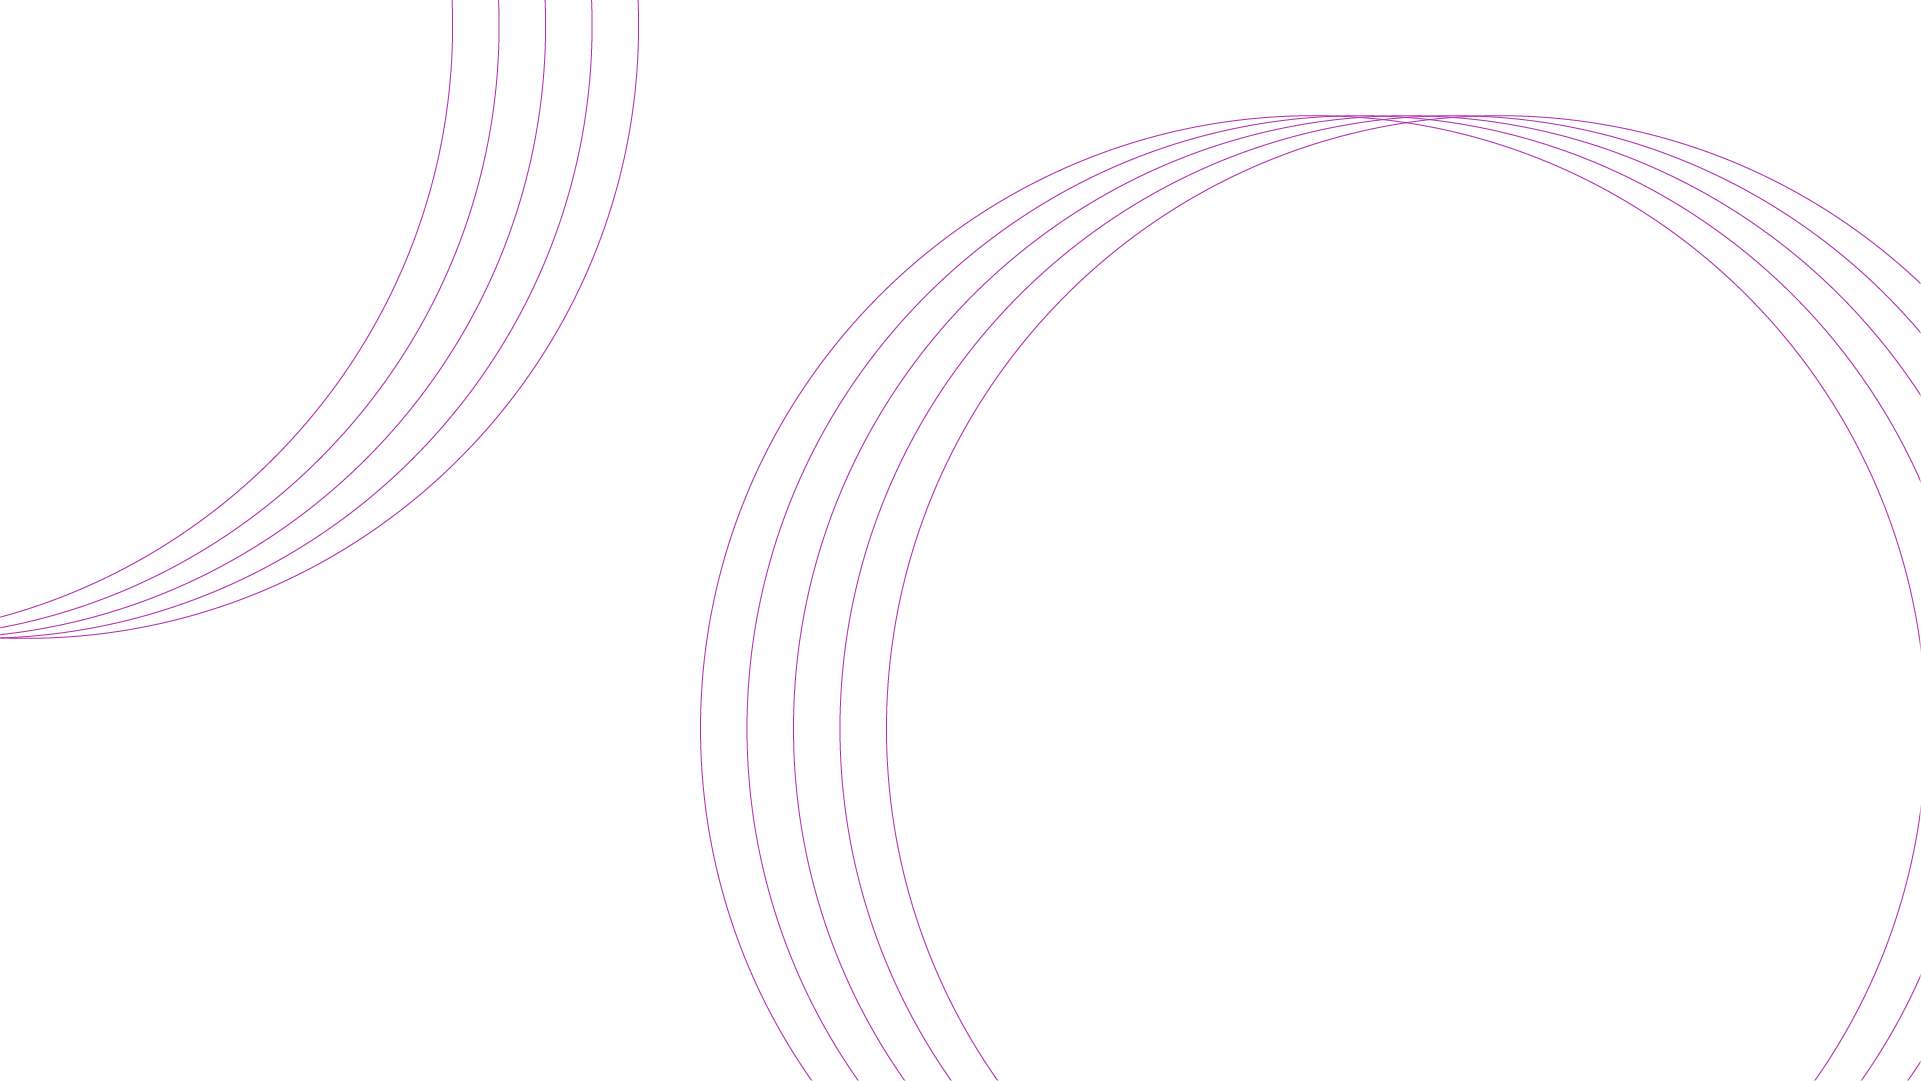
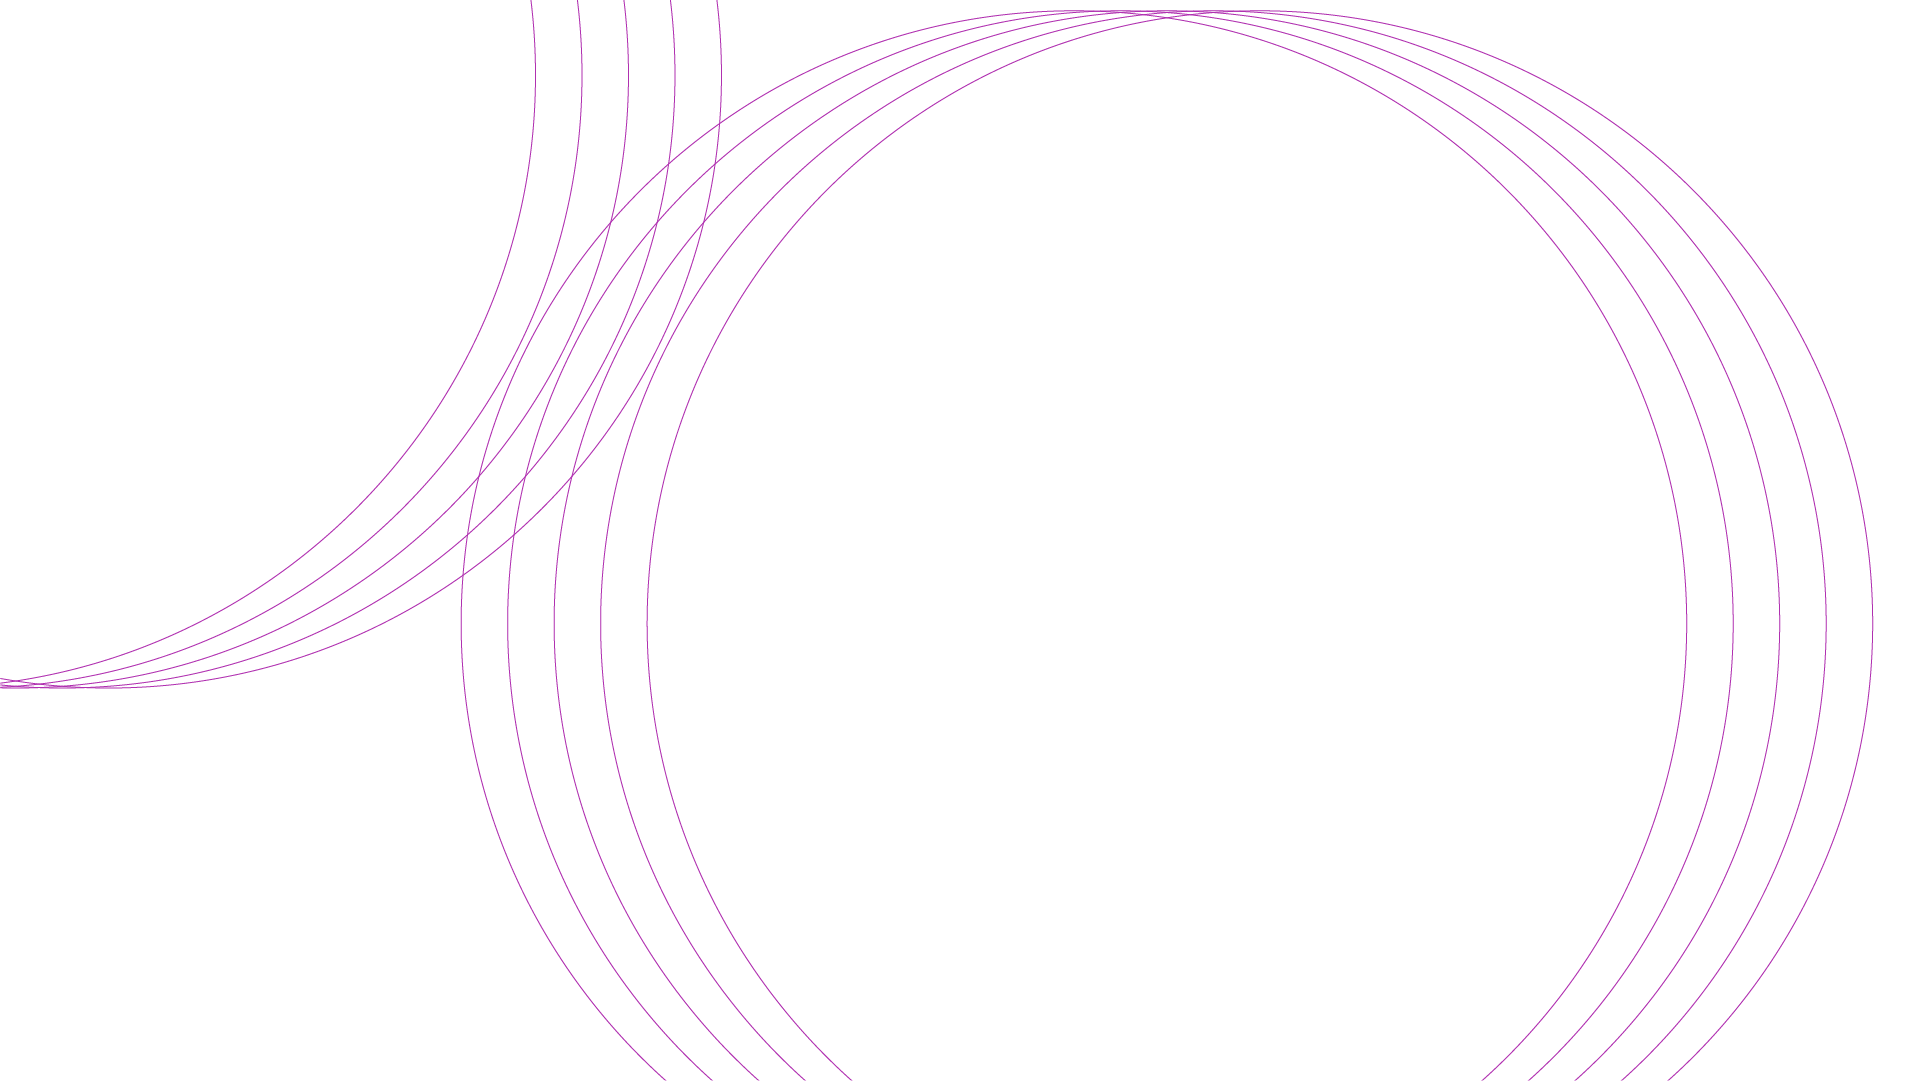
home page changes

diff --git a/stylesheet/stylesheet.css b/stylesheet/stylesheet.css
@@ -1,10 +1,19 @@
 /* ----------------------------------------colour reference */
 /* 
+black
 blue grey: #202040
 navy blue: #202060
 purple: #602080
 pink: #b030b0
 grey: #808080
+
+focus colors:
+black: #262630
+blue grey: #3c3c68
+navy blue: #46469b
+purple: #783f99
+pink: #aa50ad
+grey: #686768
 
 */
 
@@ -104,6 +113,10 @@ ul.spaced-list li{
     cursor: pointer;
     padding: 20px 40px;
 }
+.btn-primary:hover, .btn-primary:active, .btn-primary:focus {
+    background: #3c3c68;
+    border: 1px solid #3c3c68;
+}
 .btn-secondary{
     background: black;
     border: 1px solid white;
@@ -122,7 +135,43 @@ ul.spaced-list li{
     color: white;
 }
 
+
+/* more icons */
+.more-icon{
+    width: 80px;
+    height: 80px;
+    padding-top: 20px;
+    position: absolute;
+    margin: 25px;
+    transition: 0.5s;
+}
+.more-icon:hover { 
+    cursor: pointer;
+    font-size: 1.1em;;
+}
+.more-icon a{
+    color: white;
+}
+.to-brand{
+    top: 30vh;
+    border-radius: 40px;
+    border: 1px solid white;
+    background: #202040;
+}
+.to-brand:hover{
+    background: #3c3c68;
+}
+.to-production{
+    opacity: 0.6;
+}
+.to-get-in-touch{
+    bottom: 3vh;
+    opacity: 0.6;
+}
+
+
 /* ----------------------------------------nav */
+header{}
 .menu-mobile{
     position: fixed;
     background: rgba(0,0,0,0.8);
@@ -192,7 +241,7 @@ section#landing{
 }
 #hex1{
     position: absolute;
-    animation: rotation 80s infinite linear reverse;
+    animation: rotation 50s infinite linear reverse;
     height: 60vh;
     top: 15vh;
     left: 0vw;
@@ -202,14 +251,14 @@ section#landing{
     height: 80vh;
     top: 5vh;
     left: -15vw;
-    animation: rotation 140s infinite linear;
+    animation: rotation 100s infinite linear;
 }
 #hex3{
     position: absolute;
     height: 200vh;
     top: -50vh;
     left: -100vw;
-    animation: rotation 180s infinite linear reverse;
+    animation: rotation 150s infinite linear reverse;
 }
 .logo{
     margin-top: 30vh;
@@ -222,27 +271,24 @@ section#landing h1{
     font-size: 1.5em;
 }
 @keyframes rotation {
-    from {
-      transform: rotate(0deg);
+    0% {
+      transform: rotate(0deg) translate(0, 0);
     }
-    to {
-      transform: rotate(359deg);
+    25%{
+        transform: rotate(90deg) translate(50px, 0);
+    }
+    50%{
+        transform: rotate(180deg) translate(50px, 50px);
+    }
+    75%{
+        transform: rotate(270deg) translate(0, 50px);
+
+    }
+    100% {
+      transform: rotate(359deg) translate(0, 0);
     }
 }
-.more-icon{
-    background: #202040;
-    width: 80px;
-    height: 80px;
-    border-radius: 40px;
-    border: 1px solid white;
-    padding-top: 20px;
-    position: absolute;
-    top: 30vh;
-    margin: 25px;
-}
-.more-icon a{
-    color: white;
-}
+
 
 /* brand section */
 section#brand{
@@ -274,6 +320,8 @@ section#brand{
 #brand-icons a{
     color: white;
 }
+
+/* brand more-icon */
 #brand-icons i.arrow{
     display: block;
     width: 80px;
@@ -285,6 +333,17 @@ section#brand{
     background: black;
     z-index: 10;
     position: relative;
+    transition: font-size 0.5s;
+}
+#brand-icons a.arrow{
+    transition: 0.5s;
+}
+#brand-icons a.arrow:hover{
+    text-decoration: none;
+}
+#brand-icons i.arrow:hover{
+    text-decoration: none;
+    font-size: 18px;
 }
 
 /* digital design section */
@@ -304,7 +363,7 @@ section#production{
 
 /* ----------------------------------------get in touch */
 section#get-in-touch{
-    background: url(../assets/svgs/get-in-touch.svg) no-repeat 20px 20px, #202040;
+    background: url(../assets/images/get-in-touch.png) no-repeat 20px 20px, #202040;
     background-size: 120vh auto;
 }
 
@@ -368,7 +427,7 @@ footer ul li a:hover{
 
     /* get in touch */
     section#get-in-touch{
-        background: url(../assets/svgs/get-in-touch.svg) no-repeat center 40px, #202040;
+        background: url(../assets/images/get-in-touch.png) no-repeat center 40px, #202040;
         background-size: 70vh auto;
         width: 100vw;
         padding: 100px 0;
@@ -390,7 +449,7 @@ footer ul li a:hover{
     #production-border{
         background: url(../assets/images/productiom-border.png) no-repeat center center;
         background-size: contain;
-        padding: 100px;
+        padding: 200px;
     }
  }
 
@@ -438,6 +497,10 @@ footer ul li a:hover{
         margin: 0;
         padding: 10px;
         width: auto;
+        transition: background 0.5s;
+    }
+    nav ul li.quote:hover{
+        background: #aa50ad;
     }
     nav a:hover{
         cursor: pointer;
@@ -499,7 +562,7 @@ footer ul li a:hover{
 
     /* get in touch */
     section#get-in-touch{
-        background: url(../assets/svgs/get-in-touch.svg) no-repeat center 40px, #202040;
+        background: url(../assets/images/get-in-touch.png) no-repeat center 40px, #202040;
         background-size: 90vh auto;
     }
 

diff --git a/index.html b/index.html
@@ -21,12 +21,6 @@
     <!-- link to custom css -->
     <link rel="stylesheet" href="stylesheet/stylesheet.css">
 
-    <!--animate.css-->
-    <link rel="stylesheet" href="https://cdnjs.cloudflare.com/ajax/libs/animate.css/3.7.2/animate.min.css">
-
-   <!--animate on scroll-->
-   <link rel="stylesheet" href="https://cdn.rawgit.com/michalsnik/aos/2.1.1/dist/aos.css"/>
-
 
     <!--[if lt IE 9]>
 	<script src="https://oss.maxcdn.com/html5shiv/3.7.2/html5shiv.min.js"></script>
@@ -72,20 +66,20 @@
 
     <section id="landing">
         <div class="landing-bg text-center">
-            <img id="hex1" src="assets/svgs/hex-1.svg">
-            <img id="hex2" src="assets/svgs/hex-2.svg">
-            <img id="hex3" src="assets/svgs/hex-3.svg">
+            <img id="hex1" src="assets/images/hex-1.png">
+            <img id="hex2" src="assets/images/hex-2.png">
+            <img id="hex3" src="assets/images/hex-3.png">
         </div>
         <div class="container">
             <div class="row">
                 <div class="col-12 text-center">
                     <div class="logo">
-                        <img class="logo" src="assets/images/logo.svg" alt="<>">
+                        <img class="logo" src="assets/images/logo.png" alt="logo">
                         <h1 class="text-white">Laura Ann Seal</h1>
                     </div>
                 </div>
                 <div class="col-xl-2 offset-xl-10 text-white text-center hide-until-desktop">
-                    <div class="more-icon">
+                    <div class="more-icon to-brand">
                         <a href="#brand">
                             more
                              <br>
@@ -117,7 +111,7 @@
                             <h1 class="show-text">brand</h1>
                         </div>
                         <div class="col-md-4">
-                            <img src="assets/svgs/hori-lines.svg" class="hide-mobile w-100" alt="|||">
+                            <img src="assets/images/hori-lines.png" class="hide-mobile w-100" alt="|||">
                         </div>
                         <div class="col-md-8 col-xl-6 text-white">
                             <p>
@@ -142,7 +136,7 @@
                     <i class="brand fas fa-laptop-code"></i>
                     <i class="brand fas fa-mobile-alt"></i>
                     <i class="brand fas fa-ad"></i>
-                    <a href="#design"><i class="arrow fas fa-arrow-down"></i></a>
+                    <a href="#design" class="arrow"><i class="arrow fas fa-arrow-down"></i></a>
                 </div><!--col-->
 
             </div><!--row-->
@@ -167,6 +161,15 @@
                         <a href="services.html" class="btn btn-secondary">more services</a>
                     </div>
                 </div>
+                <div class="row">
+                    <div class="col-xl-2 offset-xl-10 text-white text-center hide-until-desktop">
+                        <div class="more-icon to-production">
+                            <a href="#production">
+                                <i class="arrow fas fa-arrow-down"></i>
+                            </a>
+                        </div>
+                    </div>
+                </div>
             </div>
     </section>
 
@@ -185,6 +188,15 @@
                 </div>
                 <div class="col-12 text-center">
                     <a href="services.html" class="btn btn-warning">more services</a>
+                </div>
+            </div>
+            <div class="row">
+                <div class="col-xl-2 offset-xl-10 text-white text-center hide-until-desktop">
+                    <div class="more-icon to-get-in-touch">
+                        <a href="#get-in-touch">
+                            <i class="arrow fas fa-arrow-down"></i>
+                        </a>
+                    </div>
                 </div>
             </div>
         </div>
@@ -251,9 +263,6 @@
     <script src="https://cdn.jsdelivr.net/npm/popper.js@1.16.0/dist/umd/popper.min.js" integrity="sha384-Q6E9RHvbIyZFJoft+2mJbHaEWldlvI9IOYy5n3zV9zzTtmI3UksdQRVvoxMfooAo" crossorigin="anonymous"></script>
     <script src="https://stackpath.bootstrapcdn.com/bootstrap/4.4.1/js/bootstrap.min.js" integrity="sha384-wfSDF2E50Y2D1uUdj0O3uMBJnjuUD4Ih7YwaYd1iqfktj0Uod8GCExl3Og8ifwB6" crossorigin="anonymous"></script>
 
-    <!--animate on scroll-->
-    <script src='https://cdn.rawgit.com/michalsnik/aos/2.1.1/dist/aos.js'></script>
-
     <!-- custom scripts -->
     <script src="scripts/navbar.js"></script>
     <script>
@@ -262,6 +271,7 @@
         ]
     </script>
     <script src="scripts/developYour.js"></script>
+    <script src="scripts/animate.js"></script>
     
 </body>
 </html>

diff --git a/scripts/animate.js b/scripts/animate.js
@@ -1,0 +1,36 @@
+const navSm = document.querySelector('header.hide-pro-up');
+const navLg = document.querySelector('header.hide-until-pro');
+const landing = document.querySelector('#landing');
+const brand = document.querySelector('#brand');
+const design = document.querySelector('#design');
+const productions = document.querySelector('#production');
+const getInTouch = document.querySelector('#get-in-touch');
+const footer = document.querySelector('footer');
+
+const windowY = window.innerHeight;
+
+
+window.addEventListener('scroll', () => {
+    let brandTop = brand.getBoundingClientRect().top;
+    let designTop = design.getBoundingClientRect().top;
+    let productionsTop = productions.getBoundingClientRect().top;
+    let getInTouchTop = getInTouch.getBoundingClientRect().top;
+    let footerTop = footer.getBoundingClientRect().top;
+
+    if(brandTop <= windowY && brandTop > 0){
+        console.log('brand');
+    } 
+    if( designTop <= windowY && designTop > 0){
+        console.log('design');
+    } 
+    if( productionsTop <= windowY && productionsTop > 0){
+        console.log('production');
+    } 
+    if(getInTouchTop <= windowY && getInTouchTop > 0){
+        console.log('get in touch');
+    } 
+    if( footerTop <= windowY){
+        console.log('footer');
+    }
+
+})
